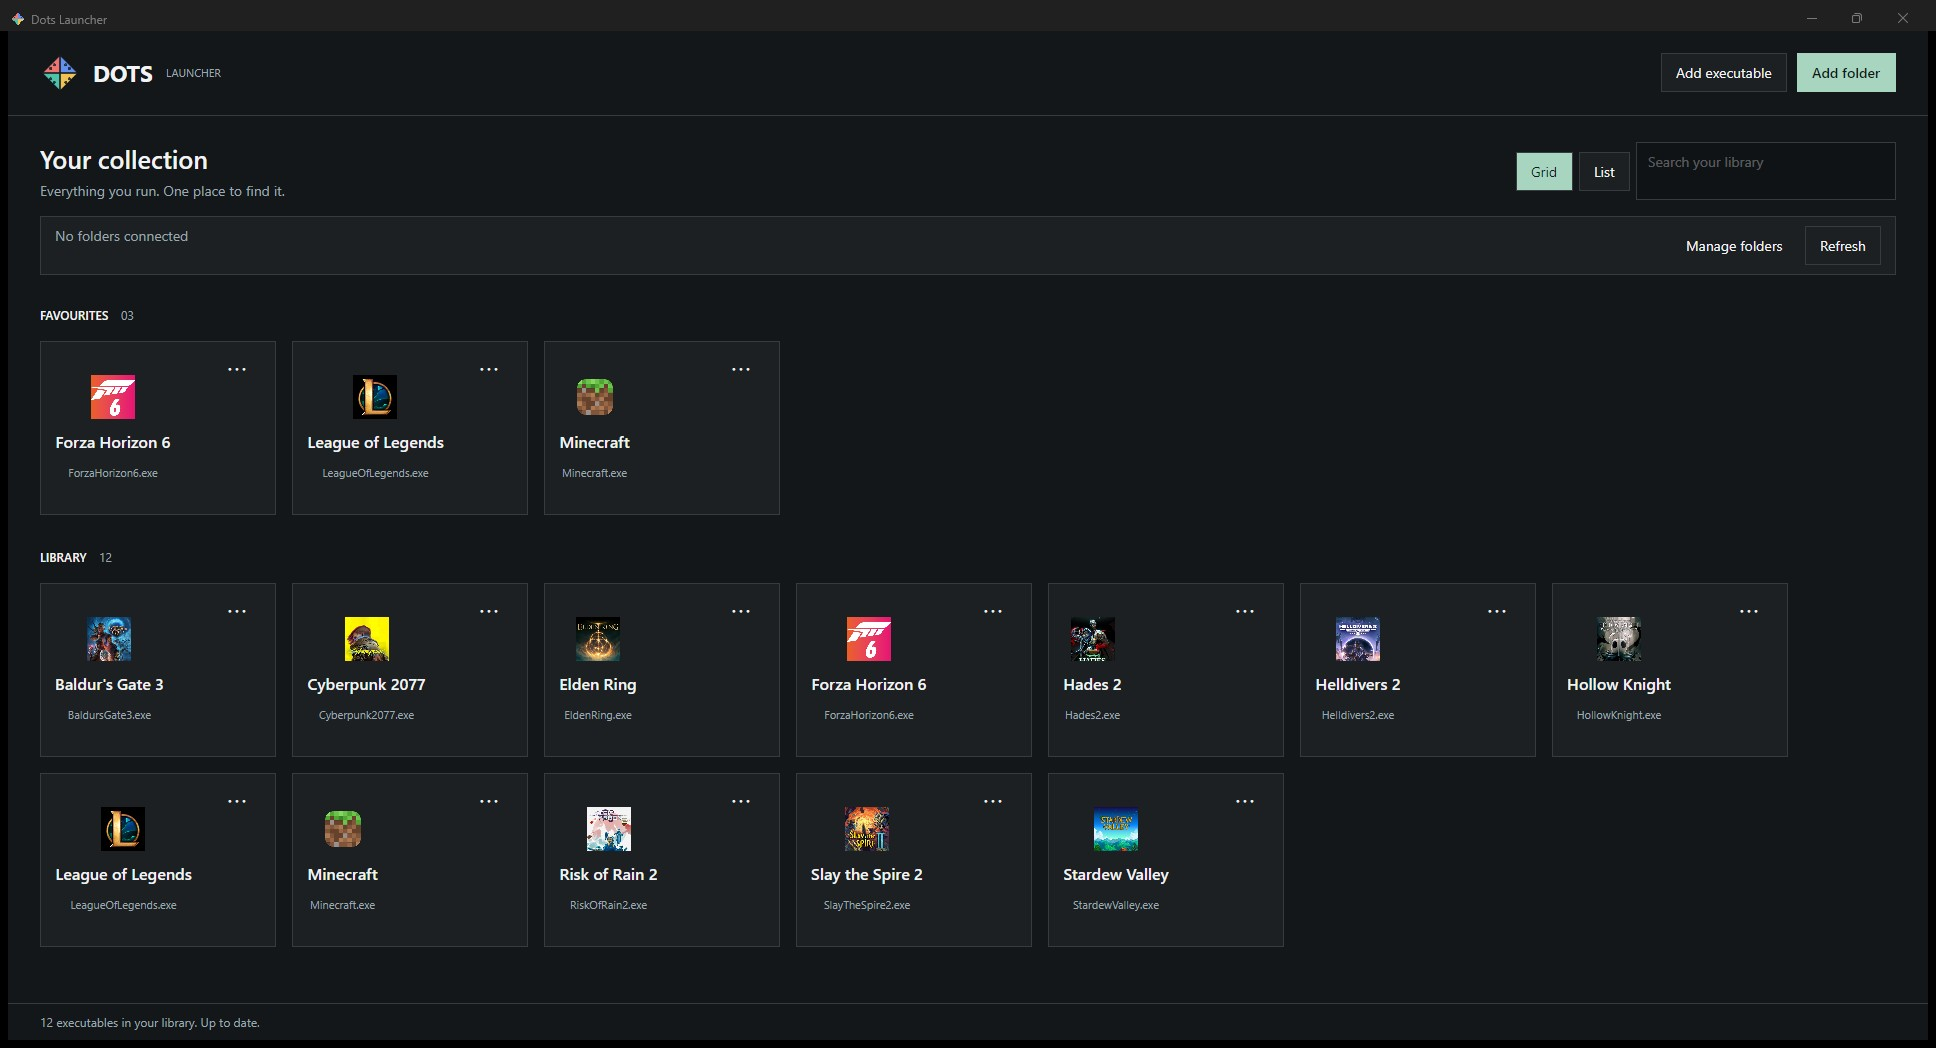
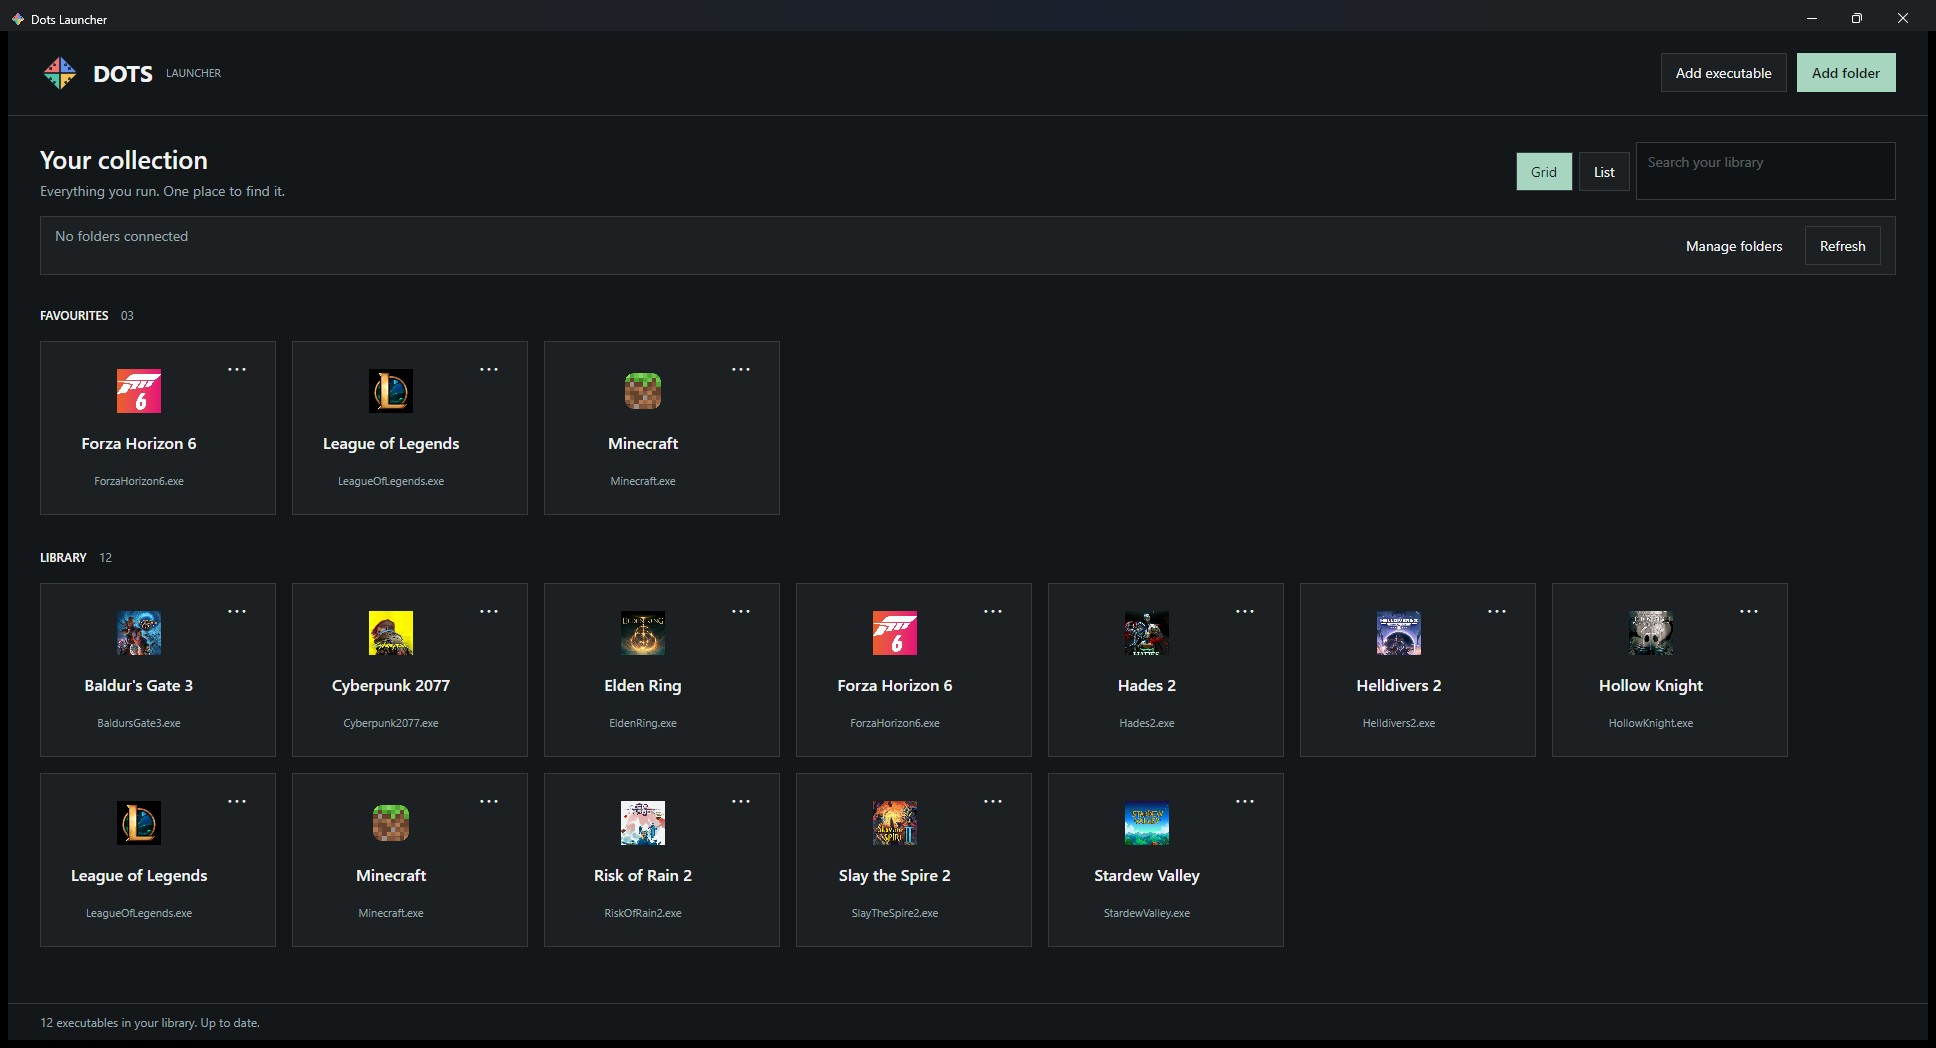
Align launcher cards and prepare signed Windows releases

diff --git a/DotsLauncher/MainWindow.cs b/DotsLauncher/MainWindow.cs
@@ -48,14 +48,19 @@ public sealed class MainWindow : Window
 
     Control Card(ExecutableProfile p)
     {
-        var surface=Surface(p,236,174,new(0,0,16,16));var gridbox=new Grid();var center=new StackPanel{Spacing=12,HorizontalAlignment=HorizontalAlignment.Center,VerticalAlignment=VerticalAlignment.Center,Children={new Image{Source=IconService.Get(p.Path,p.IconPath),Width=44,Height=44,HorizontalAlignment=HorizontalAlignment.Center},new TextBlock{Text=p.Title,FontSize=16,FontWeight=FontWeight.SemiBold,TextAlignment=TextAlignment.Center,MaxWidth=195,TextWrapping=TextWrapping.Wrap},new TextBlock{Text=Available(p)?Path.GetFileName(p.Path):"FILE UNAVAILABLE",FontSize=11,Foreground=Muted,TextAlignment=TextAlignment.Center,MaxWidth=195,TextTrimming=TextTrimming.CharacterEllipsis}}};gridbox.Children.Add(LaunchButton(center,p));gridbox.Children.Add(MenuButton(p));var check=Check(p);gridbox.Children.Add(check);Hover(surface,check);surface.Child=gridbox;return surface;
+        var surface=Surface(p,236,174,new(0,0,16,16));var gridbox=new Grid();
+        var center=new Grid{Width=196,RowDefinitions=new("48,44,18"),RowSpacing=6,HorizontalAlignment=HorizontalAlignment.Center,VerticalAlignment=VerticalAlignment.Center};
+        var image=new Image{Source=IconService.Get(p.Path,p.IconPath),Width=44,Height=44,Stretch=Stretch.Uniform,HorizontalAlignment=HorizontalAlignment.Center,VerticalAlignment=VerticalAlignment.Center};
+        var title=new TextBlock{Text=p.Title,FontSize=16,FontWeight=FontWeight.SemiBold,TextAlignment=TextAlignment.Center,TextWrapping=TextWrapping.Wrap,HorizontalAlignment=HorizontalAlignment.Stretch,VerticalAlignment=VerticalAlignment.Center};
+        var file=new TextBlock{Text=Available(p)?Path.GetFileName(p.Path):"FILE UNAVAILABLE",FontSize=11,Foreground=Muted,TextAlignment=TextAlignment.Center,TextTrimming=TextTrimming.CharacterEllipsis,HorizontalAlignment=HorizontalAlignment.Stretch,VerticalAlignment=VerticalAlignment.Center};
+        center.Children.Add(image);center.Children.Add(title);Grid.SetRow(title,1);center.Children.Add(file);Grid.SetRow(file,2);gridbox.Children.Add(LaunchButton(center,p));gridbox.Children.Add(MenuButton(p));var check=Check(p);gridbox.Children.Add(check);Hover(surface,check);surface.Child=gridbox;return surface;
     }
     Control Row(ExecutableProfile p)
     {
         var surface=Surface(p,double.NaN,76,new(0,0,0,10));var gridbox=new Grid();var row=new Grid{ColumnDefinitions=new("72,46,*,56"),Margin=new(10)};var image=new Image{Source=IconService.Get(p.Path,p.IconPath),Width=40,Height=40};var words=new StackPanel{Spacing=3,VerticalAlignment=VerticalAlignment.Center,Children={new TextBlock{Text=p.Title,FontWeight=FontWeight.SemiBold},new TextBlock{Text=p.Path,FontSize=11,Foreground=Muted,TextTrimming=TextTrimming.CharacterEllipsis}}};row.Children.Add(image);Grid.SetColumn(image,1);row.Children.Add(words);Grid.SetColumn(words,2);gridbox.Children.Add(LaunchButton(row,p));var menu=MenuButton(p);menu.VerticalAlignment=VerticalAlignment.Center;gridbox.Children.Add(menu);var check=Check(p);gridbox.Children.Add(check);Hover(surface,check);surface.Child=gridbox;return surface;
     }
     Border Surface(ExecutableProfile p,double width,double height,Thickness margin)=>new(){Width=width,Height=height,Margin=margin,Background=selected.Contains(p.Id)?B("#26332E"):Panel,BorderBrush=selected.Contains(p.Id)?Accent:Border,BorderThickness=new(1)};
-    Button LaunchButton(Control content,ExecutableProfile p){var b=Btn(content);b.Tag=p;b.Background=Brushes.Transparent;b.BorderThickness=new(0);b.HorizontalContentAlignment=HorizontalAlignment.Stretch;b.VerticalContentAlignment=VerticalAlignment.Stretch;ToolTip.SetTip(b,p.Path);b.Click+=(_,_)=>{if(selecting)Toggle(p);else Launch(p);};return b;}
+    Button LaunchButton(Control content,ExecutableProfile p){var b=Btn(content);b.Tag=p;b.Background=Brushes.Transparent;b.BorderThickness=new(0);b.Padding=new(0);b.HorizontalContentAlignment=HorizontalAlignment.Stretch;b.VerticalContentAlignment=VerticalAlignment.Stretch;ToolTip.SetTip(b,p.Path);b.Click+=(_,_)=>{if(selecting)Toggle(p);else Launch(p);};return b;}
     Button MenuButton(ExecutableProfile p){var b=Btn("⋯");b.FontSize=23;b.Width=40;b.Height=36;b.Padding=new(0);b.HorizontalAlignment=HorizontalAlignment.Right;b.VerticalAlignment=VerticalAlignment.Top;b.Margin=new(0,9,9,0);b.Background=Brushes.Transparent;b.BorderThickness=new(0);b.Click+=(_,_)=>Menu(b,p);return b;}
     CheckBox Check(ExecutableProfile p){var c=new CheckBox{Content="Select",IsChecked=selected.Contains(p.Id),IsVisible=selecting,HorizontalAlignment=HorizontalAlignment.Left,VerticalAlignment=VerticalAlignment.Top,Margin=new(11),Background=B("#242A2E")};c.IsCheckedChanged+=(_,_)=>{selecting=true;if(c.IsChecked==true)selected.Add(p.Id);else selected.Remove(p.Id);RefreshView();};return c;}
     void Hover(Border b,CheckBox c){b.PointerEntered+=(_,_)=>c.IsVisible=true;b.PointerExited+=(_,_)=>{if(!selecting)c.IsVisible=false;};}

diff --git a/README.md b/README.md
@@ -18,6 +18,19 @@ GitHub Releases produce self-contained builds; no .NET installation is required.
 
 Windows portable archives include `portable.flag`, so the library is stored in the adjacent `data` folder. Other builds use the operating system's local application-data directory. `--portable` enables adjacent storage on any platform; `--data-dir PATH` chooses an explicit location.
 
+### Windows publisher and SmartScreen
+
+An unsigned Windows build displays **Unknown publisher** and can trigger Microsoft Defender SmartScreen. The release workflow supports Microsoft Artifact Signing so tagged releases can carry a verified publisher identity. Configure an Artifact Signing account with a Public Trust certificate profile and add these repository Actions secrets:
+
+- `AZURE_CLIENT_ID`
+- `AZURE_TENANT_ID`
+- `AZURE_SUBSCRIPTION_ID`
+- `AZURE_ARTIFACT_SIGNING_ENDPOINT`
+- `AZURE_ARTIFACT_SIGNING_ACCOUNT`
+- `AZURE_ARTIFACT_SIGNING_CERTIFICATE_PROFILE`
+
+The Windows jobs sign and verify `DotsLauncher.exe` before creating the portable archives. Tagged releases fail instead of publishing an unsigned Windows executable when signing is not configured. New certificates and binaries can still show an initial SmartScreen reputation warning; using the same trusted signing identity for every release allows reputation to accumulate. Microsoft Store distribution is the only option that avoids SmartScreen download warnings immediately.
+
 The macOS archives are unsigned development builds. On first launch, use **Open** from Finder's context menu if Gatekeeper blocks the app. Signing and notarization require an Apple Developer identity.
 
 ## Platform support
